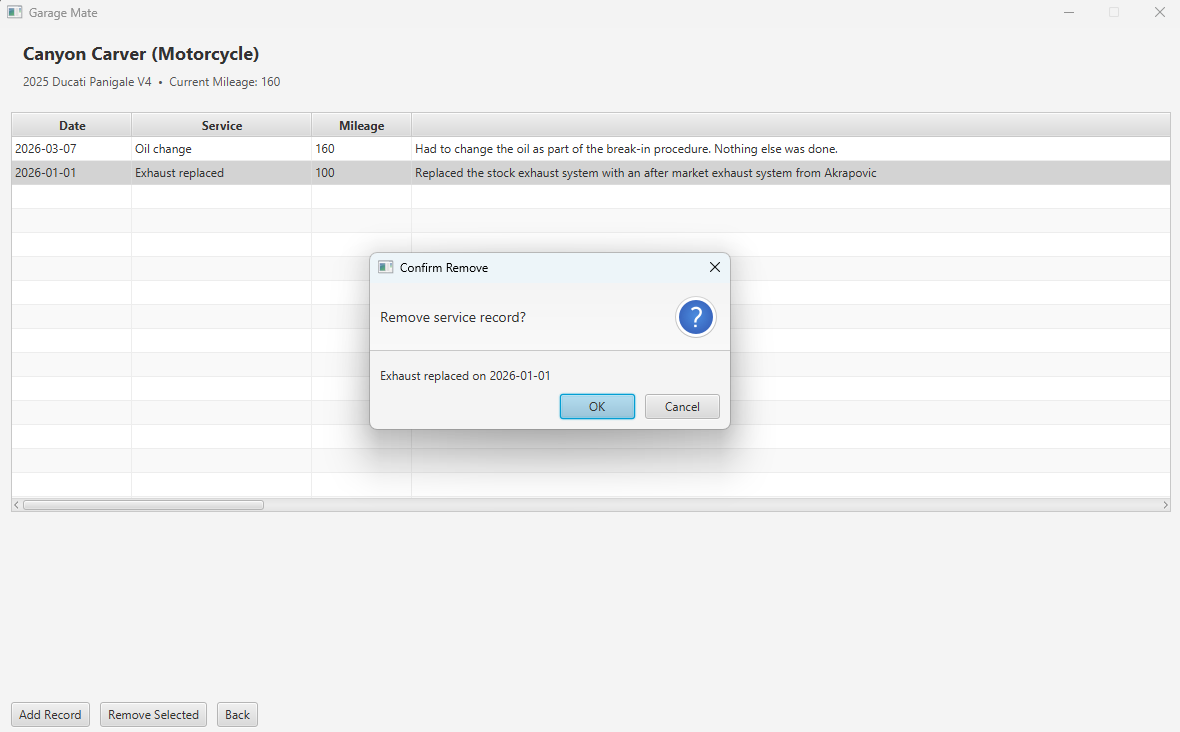
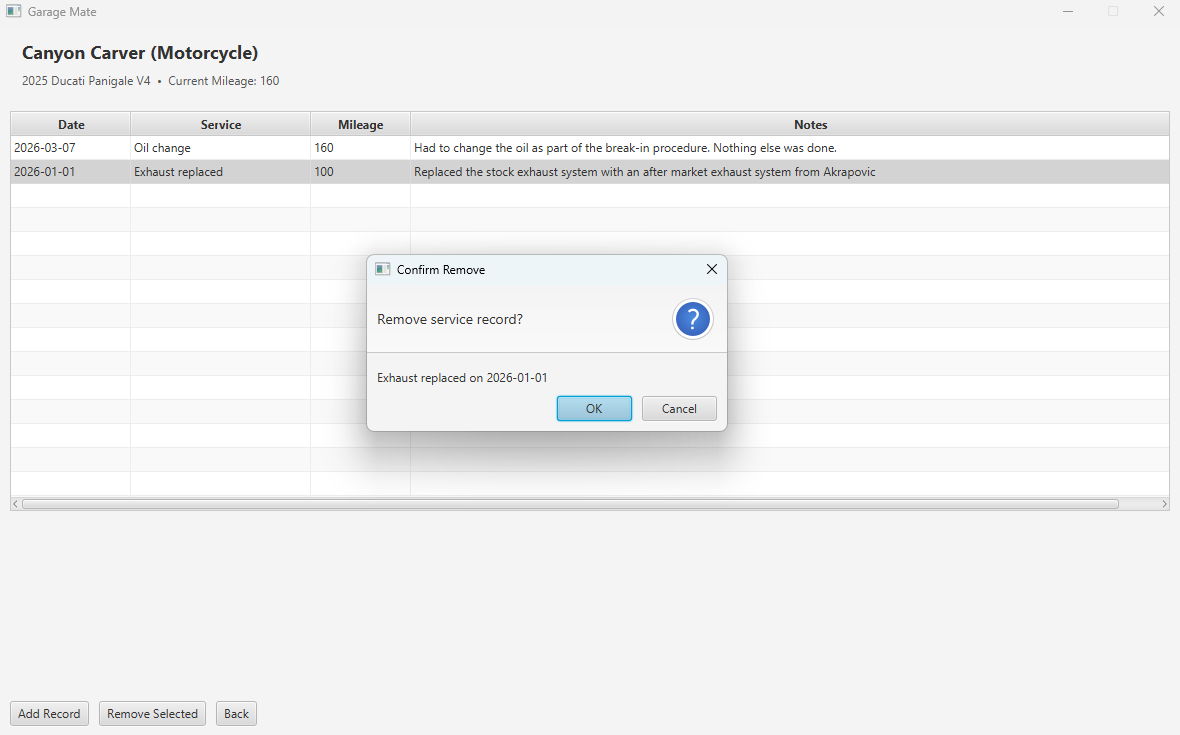
some small fixes

diff --git a/src/main/java/com/garagemate/app/MainApp.java b/src/main/java/com/garagemate/app/MainApp.java
@@ -613,7 +613,7 @@ public class MainApp extends Application {
         notesCol.setCellValueFactory(c ->
                 new ReadOnlyStringWrapper(c.getValue().getNotes())
         );
-        notesCol.setPrefWidth(Double.MAX_VALUE); // let notes take up remaining space since it will usually be the longest column
+        notesCol.setPrefWidth(800); // let notes take up remaining space since it will usually be the longest column
 
         recordTable.getColumns().setAll(dateCol, typeCol, milesCol, notesCol);
 
